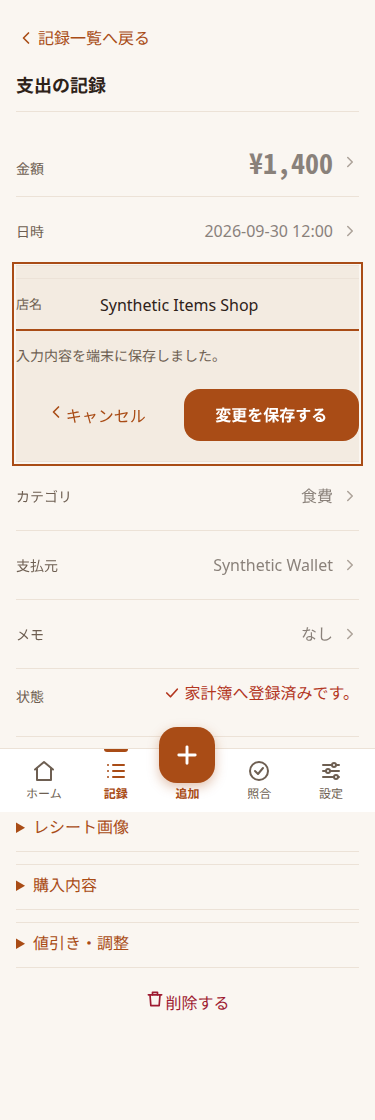
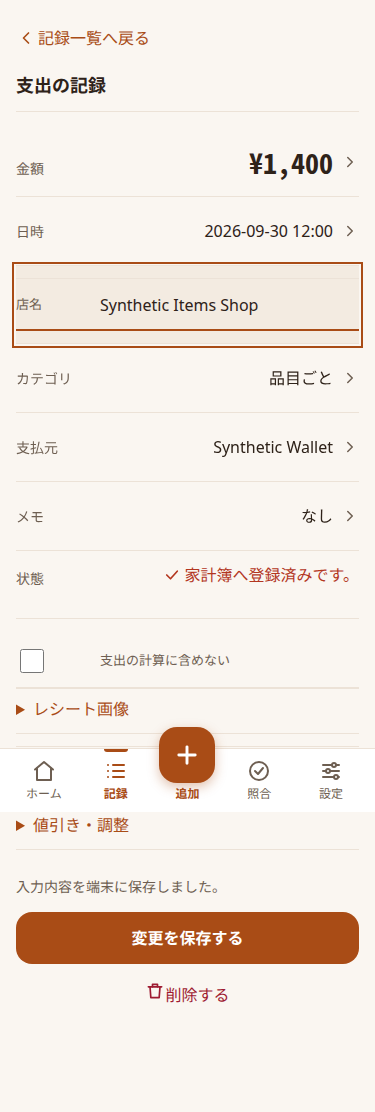
fix: 詳細の変更を一括保存し項目外タップで編集を閉じる

diff --git a/apps/pwa/src/local-ui.ts b/apps/pwa/src/local-ui.ts
@@ -1,4 +1,4 @@
-import { showInlineFields } from './inline-record-editor';
+import { configureInlineEditor } from './inline-record-editor';
 import { initializeMoneyForwardUi } from './moneyforward-ui';
 import { createAccountMetadataAccess } from './local-account-metadata';
 import { accountOptions } from './local-account-ui';
@@ -370,31 +370,61 @@ export async function initializeLocalUi(options: { openAccount: () => void }) {
     render();
   }
   /** 記録の詳細の行（項目名を左、値を右）。先頭の行は金額として大きく出す。docs/UX.md 記録の詳細。 */
+  const detailFooters = new WeakMap<HTMLElement, HTMLElement>();
   function recordDetailRows(rows: Array<[string, string | HTMLElement]>, edit?: (index: number, mount: HTMLElement, close: () => Promise<void>) => Promise<void>) {
     const detail = document.createElement('dl'); detail.className = 'transaction-detail surface-section';
+    const footer = text('div', '', 'detail-save'); footer.id = `detail-save-${crypto.randomUUID()}`;
+    detailFooters.set(detail, footer);
+    if (edit) { const save = button('変更を保存する', () => {}, false); save.disabled = true; footer.append(save); }
+    const mount = text('div', '', 'inline-record-editor'); mount.dataset.actionsId = footer.id;
+    let selected: number | null = null;
+    let ready = false;
+    let loading = false;
+    const groups: HTMLElement[] = [];
+    const targets: HTMLButtonElement[] = [];
+    const close = async () => {
+      if (selected === null || loading || mount.querySelector('form[aria-busy="true"]') || footer.querySelector<HTMLButtonElement>('button[type="submit"]')?.disabled) return;
+      const summary = { values: undefined as string[] | undefined };
+      mount.dispatchEvent(new CustomEvent('inline-summary', { detail: summary }));
+      for (const [index, value] of (summary.values ?? []).entries()) {
+        if (!targets[index]) continue;
+        targets[index].replaceChildren(document.createTextNode(value), icon('chevronRight'));
+        targets[index].setAttribute('aria-label', `${rows[index][0]}を編集: ${value}`);
+      }
+      groups[selected].querySelector<HTMLElement>('dt')!.hidden = false;
+      groups[selected].querySelector<HTMLElement>('dd')!.hidden = false;
+      selected = null; mount.classList.add('is-collapsed'); footer.append(mount);
+      if (document.activeElement instanceof HTMLElement && mount.contains(document.activeElement)) document.activeElement.blur();
+    };
+    const select = async (index: number) => {
+      if (loading || selected === index) return;
+      await close();
+      if (selected !== null) return;
+      el('message').textContent = '';
+      selected = index; const group = groups[index];
+      group.querySelector<HTMLElement>('dt')!.hidden = true; group.querySelector<HTMLElement>('dd')!.hidden = true;
+      group.append(mount); mount.classList.remove('is-collapsed');
+      if (ready) mount.dispatchEvent(new CustomEvent('inline-select', { detail: index }));
+      else { loading = true; try { await edit!(index, mount, close); } catch (error) { loading = false; throw error; } }
+    };
     for (const [index, [label, value]] of rows.entries()) {
-      const group = document.createElement('div'); group.className = index === 0 ? 'detail-amount' : 'detail-row';
+      const group = text('div', '', index === 0 ? 'detail-amount' : 'detail-row'); groups.push(group);
       const definition = text('dd', typeof value === 'string' ? value : ''); if (typeof value !== 'string') definition.append(value);
       if (edit && typeof value === 'string') {
-        const target = button(value, async () => {
-          el('message').textContent = '';
-          const mount = text('div', '', 'inline-record-editor');
-          const targets = Array.from(detail.querySelectorAll<HTMLButtonElement>('.detail-edit'));
-          targets.forEach(node => { node.disabled = true; });
-          const title = group.querySelector<HTMLElement>('dt')!;
-          title.hidden = true; definition.hidden = true; group.append(mount);
-          const close = async () => {
-            mount.remove(); title.hidden = false; definition.hidden = false;
-            targets.forEach(node => { node.disabled = false; }); target.focus();
-          };
-          try { await edit(index, mount, close); } catch (error) { await close(); throw error; }
-        }); target.className = 'detail-edit';
-        target.setAttribute('aria-label', `${label}を編集: ${value}`);
-        target.append(icon('chevronRight')); definition.replaceChildren(target);
-        group.classList.add('detail-editable');
+        const target = button(value, () => select(index)); target.className = 'detail-edit'; targets[index] = target;
+        target.setAttribute('aria-label', `${label}を編集: ${value}`); target.append(icon('chevronRight'));
+        definition.replaceChildren(target); group.classList.add('detail-editable');
       }
       group.append(text('dt', label), definition); detail.append(group);
     }
+    mount.addEventListener('inline-ready', event => { ready = true; loading = false; if (selected === null) void select((event as CustomEvent<number>).detail).catch(report); });
+    mount.addEventListener('inline-invalid', event => { void select((event as CustomEvent<number>).detail).catch(report); });
+    const outside = (event: MouseEvent) => {
+      if (!detail.isConnected) { document.removeEventListener('click', outside, true); return; }
+      if (selected === null || !(event.target instanceof Node) || groups[selected].contains(event.target) || document.querySelector('dialog[open]')) return;
+      void close().catch(report);
+    };
+    document.addEventListener('click', outside, true);
     return detail;
   }
   function spendingExclusionControl(transaction: ActualTransaction) {
@@ -424,10 +454,12 @@ export async function initializeLocalUi(options: { openAccount: () => void }) {
       ['メモ', current.memo || 'なし'],
     ] : [['金額', yen(current.amountYen)], ['日付', current.date], [current.kind === 'income' ? '入金元・内容' : '店名・支払先', current.payeeName || '未設定'], ['カテゴリ', current.categoryName || '未設定'], [current.kind === 'income' ? '入金先口座' : '支払元', accounts.find(account => account.id === current.accountId)?.name || '利用不可'], ['メモ', current.memo || 'なし']];
     const fields = ['amount', 'date', 'payee', 'category', 'account', 'memo'] as const;
-    view.append(recordDetailRows(values, current.kind !== 'transfer' && !current.isSplit
-      ? (index, mount, close) => manualEditor(current.kind === 'income' ? 'income' : 'expense', current, fields[index], mount, close) : undefined));
+    const summary = recordDetailRows(values, current.kind !== 'transfer' && !current.isSplit
+      ? (index, mount, close) => manualEditor(current.kind === 'income' ? 'income' : 'expense', current, fields[index], mount, close) : undefined);
+    view.append(summary);
     if (current.kind === "expense" && current.amountYen < 0) view.append(spendingExclusionControl(current));
     const actions = document.createElement('div'); actions.className = 'detail-actions';
+    actions.append(detailFooters.get(summary)!);
     if (current.kind === 'transfer') actions.append(button('編集する', () => manualEditor('transfer', current), false));
     const remove = deleteButton(current.id); remove.className = 'text-button destructive-text';
     actions.append(remove); view.append(actions);
@@ -486,6 +518,7 @@ export async function initializeLocalUi(options: { openAccount: () => void }) {
       view.append(adjustments);
     }
     const actions = document.createElement('div'); actions.className = 'detail-actions';
+    actions.append(detailFooters.get(summary)!);
     if (receipt.registration.actualTransactionId) { const remove = deleteButton(receipt.registration.actualTransactionId); remove.className = 'text-button destructive-text'; actions.append(remove); }
     view.append(actions);
   }
@@ -1164,20 +1197,25 @@ export async function initializeLocalUi(options: { openAccount: () => void }) {
     const cancelEntry = button('キャンセル', editorOptions.close ? async () => { await flushReceiptDraft(); flushReceiptDraft = () => Promise.resolve(); await editorOptions.close!(); } : (editing ? () => receiptDetail(receipt) : newEntryReturn)); cancelEntry.className = 'text-button back-link'; cancelEntry.prepend(icon('chevronLeft')); view.prepend(cancelEntry);
     if (!accounts.length || !categories.length) view.append(text('p', 'カテゴリと支払元は、それぞれの選択欄から追加できます。'));
     const focusField = editorOptions.focusField;
+    const selectField = (index: number) => {
+      const field = (['amount', 'date', 'merchant', 'category', 'account', 'memo'] as const)[index];
+      if (field === 'category') {
+        if (items.length) setEditorPane('items', false);
+        else categoryUi.open();
+      } else {
+        if (field === 'memo' || field === 'date') optional.open = true;
+        ({ amount, date, merchant, account, memo })[field].focus();
+      }
+    };
     if (editorOptions.mount && focusField) {
-      // The shared category menu must stay with the visible item editor.
-      if (focusField === 'category' && items.length) purchaseDetails.append(categoryUi.sheet);
-      const controls = focusField === 'category' && items.length ? [purchaseDetails] : focusField === 'date' ? [date, time] : [({ amount, date, merchant, category: categoryUi.row, account, memo })[focusField]];
-      showInlineFields(view, controls, cancelEntry);
-    }
-    if (focusField === 'category') {
-      if (items.length) setEditorPane('items', !editorOptions.mount);
-      else categoryUi.row.querySelector<HTMLButtonElement>('.entry-row-more')?.click();
-    } else if (focusField) {
-      if (focusField === 'memo') optional.open = true;
-      const control = ({ amount, date, merchant, account, memo })[focusField];
-      control?.focus();
-    }
+      // Keep the category dialog outside the fields that collapse.
+      form.append(categoryUi.sheet);
+      configureInlineEditor({ root: view,
+        fields: [[amount], [date, time], [merchant], items.length ? [purchaseDetails, categoryUi.sheet] : [categoryUi.row, categoryUi.sheet], [account], [memo]],
+        index: (['amount', 'date', 'merchant', 'category', 'account', 'memo'] as const).indexOf(focusField), select: selectField,
+        summaries: () => [yen(Number(amount.value)), `${date.value}${time.value ? ` ${time.value}` : ''}`, merchant.value || '未設定', items.length ? '品目ごと' : categoryName(category.value), account.selectedOptions[0]?.text ?? '未設定', memo.value || 'なし'],
+      });
+    } else if (focusField) selectField((['amount', 'date', 'merchant', 'category', 'account', 'memo'] as const).indexOf(focusField));
   }
   let selectedStatementProvider: StatementProvider = 'paypay_card';
   const statementProviderLabels: Record<StatementProvider, string> = { paypay: 'PayPay取引履歴（旧形式）', paypay_card: 'PayPayカード', smbc_card: '三井住友カード', rakuten_card: '楽天カード', aeon_card: 'イオンカード' };

diff --git a/apps/pwa/src/inline-record-editor.ts b/apps/pwa/src/inline-record-editor.ts
@@ -1,25 +1,53 @@
-/** Keep the existing editor's validation, drafts and save recovery inside a detail row. */
-export function showInlineFields(root: HTMLElement, controls: HTMLElement[], cancel: HTMLButtonElement) {
-  root.classList.add('inline-record-editor');
-  const form = root.querySelector('form');
-  if (!form) return;
-  const fields = controls.map(control => control.closest<HTMLElement>('.entry-row') ?? control);
-  const labels = controls.flatMap(control => control.id ? Array.from(root.querySelectorAll<HTMLLabelElement>('label')).filter(label => label.htmlFor === control.id) : []);
-  const keep = [...fields, ...labels, ...Array.from(form.querySelectorAll<HTMLElement>('.form-actions, .status, [role="status"]'))];
-  const reveal = (parent: HTMLElement) => {
-    for (const child of Array.from(parent.children)) {
-      if (!(child instanceof HTMLElement)) continue;
-      const selected = keep.some(node => child === node || child.contains(node));
-      child.hidden = !selected;
-      if (!selected || keep.includes(child)) continue;
-      if (child instanceof HTMLDetailsElement) child.open = true;
-      reveal(child);
-    }
+const editorListeners = new WeakMap<HTMLElement, AbortController>();
+
+/** Keep one draft and one save action while detail rows open and close. */
+export function configureInlineEditor(options: {
+  root: HTMLElement;
+  fields: HTMLElement[][];
+  index: number;
+  select: (index: number) => void;
+  summaries: () => string[];
+}) {
+  const { root, fields } = options;
+  editorListeners.get(root)?.abort();
+  const listeners = new AbortController(); editorListeners.set(root, listeners);
+  const signal = listeners.signal;
+  const form = root.querySelector<HTMLFormElement>('form')!;
+  const footer = document.getElementById(root.dataset.actionsId!)!;
+  form.id ||= `inline-form-${crypto.randomUUID()}`;
+  const actions = form.querySelector<HTMLElement>('.form-actions')!;
+  for (const button of Array.from(actions.querySelectorAll<HTMLButtonElement>('button'))) button.setAttribute('form', form.id);
+  const status = form.querySelector<HTMLElement>('.status');
+  footer.replaceChildren(...(status ? [status] : []), actions);
+  const originalHidden = new Map(Array.from(form.querySelectorAll<HTMLElement>('*')).map(node => [node, node.hidden]));
+  const show = (index: number) => {
+    for (const [node, hidden] of originalHidden) node.hidden = hidden;
+    const controls = fields[index];
+    const keep = controls.map(control => control.closest<HTMLElement>('.entry-row') ?? control);
+    keep.push(...Array.from(form.querySelectorAll<HTMLLabelElement>('label')).filter(label => controls.some(control => control.id === label.htmlFor)));
+    const reveal = (parent: HTMLElement) => {
+      for (const child of Array.from(parent.children)) {
+        if (!(child instanceof HTMLElement)) continue;
+        const selected = keep.some(node => child === node || child.contains(node));
+        child.hidden = !selected;
+        if (!selected || keep.includes(child)) continue;
+        if (child instanceof HTMLDetailsElement) child.open = true;
+        reveal(child);
+      }
+    };
+    reveal(form);
+    for (const child of Array.from(root.children)) if (child instanceof HTMLElement && child !== form) child.hidden = true;
+    root.classList.remove('is-collapsed');
+    options.select(index);
   };
-  reveal(form);
-  for (const child of Array.from(root.children)) if (child instanceof HTMLElement && child !== form) child.hidden = true;
-  const actions = form.querySelector('.form-actions');
-  cancel.hidden = false;
-  cancel.className = 'text-button';
-  actions?.prepend(cancel);
+  root.addEventListener('inline-select', event => show((event as CustomEvent<number>).detail), { signal });
+  root.addEventListener('inline-summary', event => { (event as CustomEvent<{ values?: string[] }>).detail.values = options.summaries(); }, { signal });
+  // Invalid fields must be visible for native validation and correction.
+  form.addEventListener('invalid', event => {
+    event.preventDefault();
+    const index = fields.findIndex(controls => controls.some(control => control === event.target || control.contains(event.target as Node)));
+    if (index >= 0) root.dispatchEvent(new CustomEvent('inline-invalid', { detail: index }));
+  }, { capture: true, signal });
+  show(options.index);
+  root.dispatchEvent(new CustomEvent('inline-ready', { detail: options.index }));
 }

diff --git a/apps/pwa/src/local-transaction-ui.ts b/apps/pwa/src/local-transaction-ui.ts
@@ -1,4 +1,4 @@
-import { showInlineFields } from './inline-record-editor';
+import { configureInlineEditor } from './inline-record-editor';
 import { accountOptions } from './local-account-ui';
 import { createMasterShortcut } from './local-master-ui';
 import { compactAddButton, dateShortcuts, entryRow, formActions, optionalFields, recurrenceRow, shortLabel } from './entry-form';
@@ -516,16 +516,18 @@ export function showManualTransactionEditor(options: {
       submit.textContent = '同じ内容で再試行する';
       status.textContent = '前回の保存結果を確認できませんでした。入力内容を固定し、同じ内容で再試行してください。';
     }
+    const editFields = ['amount', 'date', 'payee', 'category', 'account', 'memo'] as const;
+    const selectField = (index: number) => {
+      const field = editFields[index];
+      if (field === 'category') categoryUi?.open();
+      else { if (field === 'memo') optional.open = true; ({ amount, date, payee, account, memo })[field].focus(); }
+    };
     if (options.inline && options.focusField) {
-      showInlineFields(options.view, [({ amount, date, payee, category: categoryUi!.row, account, memo })[options.focusField]], cancel);
-    }
-    if (options.focusField === 'category') {
-      categoryUi?.row.querySelector<HTMLButtonElement>('.entry-row-more')?.click();
-    } else if (options.focusField) {
-      if (options.focusField === 'memo') optional.open = true;
-      const control = ({ amount, date, payee, account, memo })[options.focusField];
-      control?.focus();
-    }
+      configureInlineEditor({ root: options.view, fields: [[amount], [date], [payee], [categoryUi!.row], [account], [memo]],
+        index: editFields.indexOf(options.focusField), select: selectField,
+        summaries: () => [`¥${Number(amount.value).toLocaleString('ja-JP')}`, date.value, payee.value || '未設定', category.selectedOptions[0]?.text ?? '未設定', account.selectedOptions[0]?.text ?? '未設定', memo.value || 'なし'],
+      });
+    } else if (options.focusField) selectField(editFields.indexOf(options.focusField));
   }).catch(error => {
     if (!heading.isConnected) return;
     status.textContent = messageFor(error);

diff --git a/apps/pwa/src/style.css b/apps/pwa/src/style.css
@@ -848,10 +848,12 @@ details[open] > .receipt-compact-summary::after { transform: rotate(90deg); }
 .moneyforward-page > p, .moneyforward-page .muted { overflow-wrap: anywhere; }
 .moneyforward-preview-row { font-size: .875rem; overflow-wrap: anywhere; }
 
-/* Editing stays in the selected detail row; actions follow the field. */
+/* Only the selected field is shown; the shared save action follows the details. */
 .transaction-detail .inline-record-editor { width: 100%; min-width: 0; }
-.inline-record-editor .form-actions { position: static; display: flex; flex-wrap: wrap; gap: var(--space-2); margin: var(--space-3) 0 0; padding: var(--space-2) 0; box-shadow: none; border: 0; background: transparent; }
-.inline-record-editor .form-actions button { flex: 1; width: auto; min-width: 0; margin: 0; font-size: 1rem; }
 .inline-record-editor .entry-row { border: 0; }
 .inline-record-editor .optional-fields > summary { display: none; }
 .inline-record-editor .status:empty { display: none; }
+.inline-record-editor.is-collapsed { display: none; }
+.detail-save .form-actions { position: static; margin: 0; padding: 0; border: 0; box-shadow: none; background: transparent; }
+.detail-save button { width: 100%; min-width: 0; margin: 0; }
+.detail-save:has(.is-collapsed) .status:empty { display: none; }
